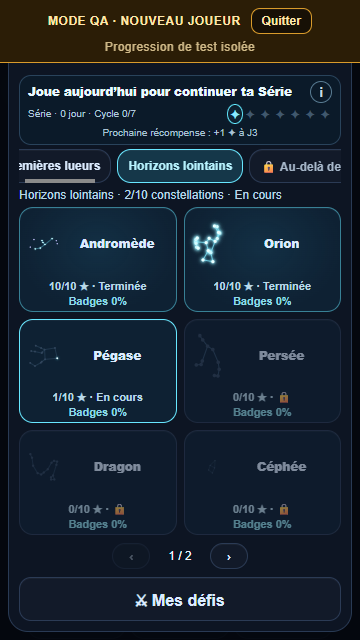
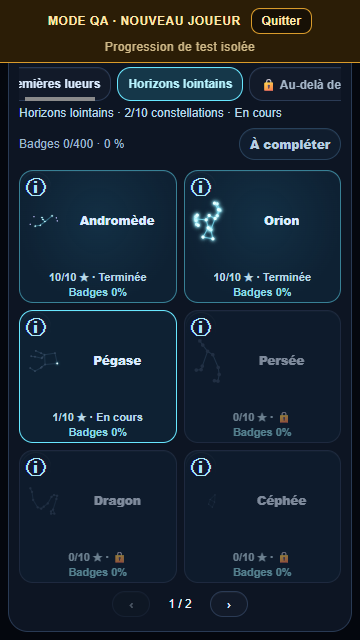
feat(sky): badge completion per Adventure and an « À compléter » filter (#985)
Owner decision 24/11/2026: 4 badges per quest, accessible scope, the
whole catalogue as a separate figure, computed locally.

Mon ciel already showed « Badges n % » per constellation and, in the
constellation detail, earned/greyed badges per quest with replay. Added
under the Adventure summary, on one compact row:
- « Badges earned/possible · % » for the selected Adventure, with the
  accessible-Adventures and whole-catalogue (880 x 4) totals as two
  labelled figures in its tooltip / accessible name;
- an « À compléter » toggle (aria-pressed) that keeps only the
  constellations still missing a badge, with an explicit note when a page
  is complete.
celestialScope over the loaded progress: no request, no table; eligibility
from performanceEligibility, never a hardcoded total. FR/EN/ES.

Tests: sky-navigation-browser-tests (adventure line 0/400, separate
catalogue figure, filter keeps only incomplete cards, no horizontal or
vertical overflow at 360/390/1440). Docs: PROGRESSION.

diff --git a/src/ui/sky-navigation.js b/src/ui/sky-navigation.js
@@ -69,7 +69,7 @@ export function createSkyNavigation({renderLockedOffer=null,t=createTranslator()
  const displayName=entry=>locale()==="fr"?entry.label:constellationDisplayName(entry.id,t,entry.label);
  modal.addEventListener('keydown',e=>{if(e.defaultPrevented)return;if(e.key==='Escape'){e.preventDefault();element('closeMap').click()}if(e.key==='Tab'){const controls=[...modal.querySelectorAll('button,select,[tabindex]')].filter(c=>!c.disabled&&c.tabIndex>=0&&c.getClientRects().length);if(!controls.length)return;const first=controls[0],last=controls.at(-1);if(e.shiftKey&&document.activeElement===first){e.preventDefault();last.focus()}else if(!e.shiftKey&&document.activeElement===last){e.preventDefault();first.focus()}}});
  const context=document.createElement('div');context.id='skyNavigation';context.className='sky-navigation';
- context.innerHTML='<div id="adventureRail" class="adventure-rail" role="group" data-game-label="sky.adventures"></div><div id="adventureSummary" class="adventure-summary"></div>';
+ context.innerHTML='<div id="adventureRail" class="adventure-rail" role="group" data-game-label="sky.adventures"></div><div id="adventureSummary" class="adventure-summary"></div><div class="adventure-badges"><span id="adventureBadges" class="adventure-badges-count"></span><button id="badgeFilter" class="badge-filter" type="button" aria-pressed="false"></button></div>';
  tabs.before(context);
  const pages=document.createElement('div');pages.id='constellationPages';pages.className='constellation-pages';
  pages.innerHTML='<button id="constellationPrevious" data-game-label="sky.previousConstellations">‹</button><span id="constellationPage" aria-live="polite"></span><button id="constellationNext" data-game-label="sky.nextConstellations">›</button>';
@@ -85,6 +85,7 @@ export function createSkyNavigation({renderLockedOffer=null,t=createTranslator()
  notice.innerHTML='<div><strong id="adventureNoticeTitle"></strong><p id="adventureNoticeCopy"></p><div id="adventureNoticeOffer" hidden></div><button id="adventureNext" hidden data-game-text="sky.discoverNext">'+t('sky.discoverNext')+'</button><button id="adventureNoticeClose">'+t('sky.understood')+'</button></div>';sheet.appendChild(notice);
  for(const node of sheet.querySelectorAll('[data-game-label]'))node.setAttribute('aria-label',t(node.dataset.gameLabel));
  let selection={},view='overview',selectedConstellation=null,noticeOrigin=null;
+ let badgeFilter=false;
  const element=id=>document.getElementById(id);
  function revealAdventure(button){
   if(!button)return;
@@ -129,18 +130,30 @@ export function createSkyNavigation({renderLockedOffer=null,t=createTranslator()
   if(focused)rail.querySelector(`[data-pack-id="${focused}"]`)?.focus({preventScroll:true});
   revealAdventure(rail.querySelector('.selected'));
   const pack=current.adventure,done=pack?.constellations.filter(completed).length||0;
+  // #985: badge completion, computed locally from the loaded progress (no request).
+  // Accessible = owned/open Adventures; the whole catalogue is a separate figure.
+  const percent=(e,p)=>p?Math.round(100*e/p):0,sum=packs=>packs.reduce((a,p)=>{const m=getAdventureMastery(p);return {earned:a.earned+(m?.earned||0),possible:a.possible+(m?.possible||0)}},{earned:0,possible:0});
+  const allPacks=(model.skies||[]).flatMap(s=>s.packs||[]),open=sum(allPacks.filter(p=>p.accessible)),catalogue=sum(allPacks),here=pack?getAdventureMastery(pack):null;
+  const badgeLine=element('adventureBadges'),filter=element('badgeFilter');
+  if(badgeLine){badgeLine.textContent=here?.possible?t('sky.adventureBadges',{earned:here.earned,possible:here.possible,percentage:percent(here.earned,here.possible)}):'';
+   badgeLine.title=t('sky.badgeTotals',{earned:open.earned,possible:open.possible,percentage:percent(open.earned,open.possible),catalogueEarned:catalogue.earned,cataloguePossible:catalogue.possible,cataloguePercentage:percent(catalogue.earned,catalogue.possible)});
+   badgeLine.setAttribute('aria-label',badgeLine.textContent+' · '+badgeLine.title)}
+  if(filter){filter.textContent=t('sky.badgeFilter');filter.setAttribute('aria-pressed',String(badgeFilter));filter.hidden=!pack?.accessible;filter.onclick=()=>{badgeFilter=!badgeFilter;render()}}
   element('adventureSummary').textContent=pack?t('sky.summary',{name:adventureDisplayName(pack,t)||t('sky.adventure'),done,total:pack.constellations.length,status:t(state(pack))}):t('sky.allLocked');
   tabs.replaceChildren();
   for(const entry of current.entries){const b=document.createElement('button'),shape=getShape(entry),reference=verifiedAstronomicalFigure(entry),lit=getLit(entry),isUnlocked=unlocked(entry,pack),done=completed(entry);b.className='sector-tab constellation-card'+(entry.id===selectedConstellation?.id?' active':'')+(isUnlocked?'':' locked')+(done?' completed':'');b.dataset.contentId=entry.id;b.dataset.packId=entry.packId;b.setAttribute('aria-label',t('sky.constellationStatus',{name:displayName(entry),lit,total:shape?.count||0,status:t(done?'sky.completed':isUnlocked?'sky.active':'sky.locked')}));
    if(shape||reference){const drawing=reference||shape;const illumination=reference?astronomicalIllumination(entry,lit,shape?.count??reference.count):null;const litIndices=illumination?.litIndices;const svg=document.createElementNS('http://www.w3.org/2000/svg','svg');const secondary=reference?secondaryStarPositions(reference,Math.max(0,(shape?.count??0)-reference.count)):[];const field=[...drawing.pts,...secondary];const xs=field.map(p=>p[0]),ys=field.map(p=>p[1]);const minX=Math.min(...xs),maxX=Math.max(...xs),minY=Math.min(...ys),maxY=Math.max(...ys);const padX=Math.max(12,(maxX-minX)*.12),padY=Math.max(12,(maxY-minY)*.12);svg.setAttribute('viewBox',`${minX-padX} ${minY-padY} ${Math.max(1,maxX-minX)+2*padX} ${Math.max(1,maxY-minY)+2*padY}`);svg.setAttribute('aria-hidden','true');const mastery=getMastery(entry);if(mastery)svg.insertAdjacentHTML('afterbegin',milkyWaySvg(entry.id,mastery.ratio,[minX-padX,minY-padY,Math.max(1,maxX-minX)+2*padX,Math.max(1,maxY-minY)+2*padY],view==='overview'?takeMasteryPulse(entry):null));for(const [a,z] of drawing.edges||[]){const line=document.createElementNS(svg.namespaceURI,'line');line.setAttribute('x1',drawing.pts[a][0]);line.setAttribute('y1',drawing.pts[a][1]);line.setAttribute('x2',drawing.pts[z][0]);line.setAttribute('y2',drawing.pts[z][1]);line.setAttribute('class','sky-line'+(reference?(litIndices?.has(a)&&litIndices?.has(z)?' on':''):(a<lit&&z<lit?' on':'')));svg.appendChild(line)}for(const [i,point] of (drawing.pts||[]).entries()){const circle=document.createElementNS(svg.namespaceURI,'circle');circle.setAttribute('cx',point[0]);circle.setAttribute('cy',point[1]);circle.setAttribute('r','4');circle.setAttribute('class','sky-star'+(reference?(litIndices?.has(i)?' on':''):(i<lit?' on':'')));svg.appendChild(circle)}if(reference){svg.insertAdjacentHTML('beforeend',questSecondaryStarsSvg(entry,lit,shape?.count??0));svg.dataset.astronomy='verified';svg.setAttribute('aria-label',t('sky.astronomy'));}b.appendChild(svg)}
    b.setAttribute('aria-disabled',String(!isUnlocked));const name=document.createElement('strong');name.textContent=displayName(entry).replace(' · Grand Chariot','');b.appendChild(name);const info=document.createElement('small');info.textContent=`${lit}/${shape?.count||0} ★ · ${done?t('sky.completed'):isUnlocked?t('sky.active'):'🔒'}${getMastered(entry)?' · ✦':''}`;b.appendChild(info);
-   const badges=getBadgeCounts(entry),mastery=getMastery(entry);const earned=mastery?.earned??Object.values(badges).reduce((a,n)=>a+n,0);const possible=mastery?.possible??getCanonicalQuests(entry.id).reduce((n,q)=>n+PERFORMANCE_BADGES.filter(key=>performanceEligibility(q.ordinal-1)[key]).length,0);const percentage=possible?Math.round(100*earned/possible):0;const badgeInfo=document.createElement('small');badgeInfo.className='constellation-badge-progress';badgeInfo.textContent=t('sky.badgeProgress',{percentage});badgeInfo.title=t('sky.badgeProgressLabel',{earned,possible});b.appendChild(badgeInfo);
+   const badges=getBadgeCounts(entry),mastery=getMastery(entry);const earned=mastery?.earned??Object.values(badges).reduce((a,n)=>a+n,0);const possible=mastery?.possible??getCanonicalQuests(entry.id).reduce((n,q)=>n+PERFORMANCE_BADGES.filter(key=>performanceEligibility(q.ordinal-1)[key]).length,0);const percentage=possible?Math.round(100*earned/possible):0;const badgeInfo=document.createElement('small');badgeInfo.className='constellation-badge-progress';badgeInfo.textContent=t('sky.badgeProgress',{percentage});badgeInfo.title=t('sky.badgeProgressLabel',{earned,possible});b.appendChild(badgeInfo);b.dataset.badgesComplete=String(possible>0&&earned>=possible);
    b.onclick=()=>{if(!isUnlocked)return;selectedConstellation=entry;setView('detail');onConstellation(entry)};
    const slot=document.createElement('div');slot.className='constellation-card-slot';slot.append(b);
+   // « À compléter »: only constellations that still miss a badge (#985).
+   slot.hidden=badgeFilter&&b.dataset.badgesComplete==='true';
    const factButton=createFactButton(entry);
    if(factButton)slot.append(factButton);
    tabs.append(slot);
   }
+  if(badgeFilter&&current.entries.length&&![...tabs.children].some(s=>!s.hidden)){const note=document.createElement('p');note.className='badge-filter-empty';note.textContent=t('sky.badgeFilterEmpty');tabs.append(note)}
   element('constellationPage').textContent=`${current.page+1} / ${current.pages}`;element('constellationPrevious').disabled=current.page===0;element('constellationNext').disabled=current.page===current.pages-1;
   // Access refresh can invalidate a viewed Adventure; return to a valid overview.
   if(selectedConstellation&&!pack?.constellations.some(c=>c.id===selectedConstellation.id)){selectedConstellation=null;view='overview'}

diff --git a/src/ui/styles.css b/src/ui/styles.css
@@ -1834,3 +1834,5 @@ html body .game-core .actions>#new.action-reset .action-top{color:#ffb38a}
 .beta-full-copy input{width:20px;height:20px;flex:0 0 auto}
 .beta-full-copy-note{margin:0 0 4px;font-size:12.5px;line-height:1.4;color:#9fb3c8}
 .beta-full-copy[hidden],.beta-full-copy-note[hidden]{display:none}
+/* #985: badge completion line and « À compléter » filter, one compact row under the Adventure summary. */
+.adventure-badges{display:flex;align-items:center;justify-content:space-between;gap:8px;margin:2px 0 6px;font-size:12px;color:#9fb6cc}.adventure-badges-count{min-width:0;overflow:hidden;text-overflow:ellipsis;white-space:nowrap}.badge-filter{flex:0 0 auto;min-height:32px;padding:4px 10px;border-radius:16px;border:1px solid #28415b;background:#101d2e;color:#b9cee1;font:inherit;font-size:12px;font-weight:800}.badge-filter[aria-pressed=true]{border-color:#68e7ff;color:#eafaff}.badge-filter[hidden]{display:none}.constellation-card-slot[hidden]{display:none}.badge-filter-empty{grid-column:1/-1;margin:8px 0;text-align:center;font-size:13px;color:#9fb6cc}

diff --git a/src/ui/locales/es/sky.js b/src/ui/locales/es/sky.js
@@ -31,6 +31,10 @@ export default Object.freeze({
   'sky.astronomy': "Trazado astronómico de Stellarium",
   'sky.badgeProgress': "Insignias {percentage} %",
   'sky.badgeProgressLabel': "{earned} insignias obtenidas de {possible} posibles",
+  'sky.adventureBadges': "Insignias {earned}/{possible} · {percentage} %",
+  'sky.badgeTotals': "Aventuras accesibles: {earned}/{possible} insignias ({percentage} %) · Catálogo completo: {catalogueEarned}/{cataloguePossible} ({cataloguePercentage} %)",
+  'sky.badgeFilter': "Por completar",
+  'sky.badgeFilterEmpty': "Todas las insignias de esta página están conseguidas ✦",
   'sky.constellationLocked': "Termina las misiones anteriores para desbloquear esta constelación.",
   'adventure.base-real-sky': "Primeros destellos",
   'adventure.real-adventure-02': "Horizontes lejanos",

diff --git a/src/ui/locales/fr/sky.js b/src/ui/locales/fr/sky.js
@@ -30,6 +30,10 @@ export default Object.freeze({
   'sky.astronomy': "Tracé astronomique Stellarium",
   'sky.badgeProgress': "Badges {percentage}%",
   'sky.badgeProgressLabel': "{earned} badges obtenus sur {possible} possibles",
+  'sky.adventureBadges': "Badges {earned}/{possible} · {percentage} %",
+  'sky.badgeTotals': "Aventures accessibles : {earned}/{possible} badges ({percentage} %) · Catalogue complet : {catalogueEarned}/{cataloguePossible} ({cataloguePercentage} %)",
+  'sky.badgeFilter': "À compléter",
+  'sky.badgeFilterEmpty': "Tous les badges de cette page sont obtenus ✦",
   'sky.constellationLocked': "Termine les quêtes précédentes pour débloquer cette constellation.",
   'adventure.base-real-sky': "Premières lueurs",
   'adventure.real-adventure-02': "Horizons lointains",

diff --git a/src/ui/locales/en/sky.js b/src/ui/locales/en/sky.js
@@ -30,6 +30,10 @@ export default Object.freeze({
   'sky.astronomy': "Stellarium constellation figure",
   'sky.badgeProgress': "Badges {percentage}%",
   'sky.badgeProgressLabel': "{earned} of {possible} badges earned",
+  'sky.adventureBadges': "Badges {earned}/{possible} · {percentage}%",
+  'sky.badgeTotals': "Open Adventures: {earned}/{possible} badges ({percentage}%) · Whole catalogue: {catalogueEarned}/{cataloguePossible} ({cataloguePercentage}%)",
+  'sky.badgeFilter': "To complete",
+  'sky.badgeFilterEmpty': "Every badge on this page is earned ✦",
   'sky.constellationLocked': "Complete the previous quests to unlock this constellation.",
   'adventure.base-real-sky': "First Light",
   'adventure.real-adventure-02': "Distant Horizons",

diff --git a/docs/PROGRESSION.md b/docs/PROGRESSION.md
@@ -230,6 +230,21 @@ A quest has a **15-minute qualification cooldown** based on `lastQualifiedAt`; r
 
 Existing performance data must be migrated conservatively; never infer newly earned badges from an incompatible legacy record.
 
+### Badge completion in Mon ciel (#985)
+
+Owner decision 24/11/2026: **4 badges per quest** (Autonomie, Rapidité, Sans
+erreur, Maîtrise; eligibility from `performanceEligibility`, never a hardcoded
+total), counted with `celestialScope` from the progress already loaded — no
+request, no table. Each constellation card keeps its « Badges n % »; under the
+Adventure summary a line shows « Badges earned/possible · % » for the selected
+Adventure, and its tooltip/accessible name gives **accessible Adventures** and the
+**whole catalogue** (880 quests × 4) as two separate, labelled figures. The
+« À compléter » toggle keeps only the constellations still missing a badge; the
+constellation detail already shows earned/greyed badges per quest and replays a
+completed quest on tap. Only acknowledged badges are counted: a pending
+navigation view is never serialized as a badge (cloud contract), so a victory
+still waiting for its server receipt is not counted yet.
+
 ## Progress integrity
 
 When localStorage cannot fit a recovery backup, verified cloud achievements can
